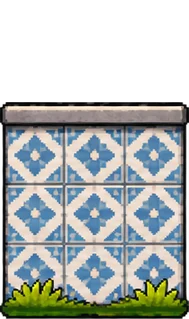
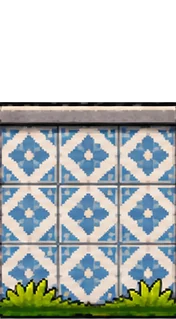
Muro fechado, sem fresta entre peças; prédios saem da camada de casas
As peças do muro geradas por IA tinham de 2 a 21 px de borda
semitransparente (bordas suaves, grama e capitel mais largos que o
corpo), e a camada de trás aparecia entre uma peça e outra.
montar_muro.py agora corta cada peça nova até as colunas em que o corpo
é 100% opaco e preenche os furinhos de dentro com a cor vizinha. As
peças da arte original já emendavam e ficam como estão.

Os 5 prédios saem da camada de casas; ficam as 5 casas novas e a tira
original.

diff --git a/scripts/arte/montar_muro.py b/scripts/arte/montar_muro.py
@@ -108,18 +108,42 @@ def main():
     folga = max(acima for _, acima in conexoes.values())
     altura_canvas = folga + (BASE - PILAR_TOPO)
 
-    def salvar(nome: str, img: Image.Image):
+    topo_pilar = altura_canvas - (BASE - PILAR_TOPO)
+
+    def salvar(nome: str, img: Image.Image, faixa_corpo: tuple[int, int] | None):
         canvas = Image.new("RGBA", (img.width, altura_canvas), (0, 0, 0, 0))
         canvas.alpha_composite(img, (0, altura_canvas - img.height))
+        if faixa_corpo is None:
+            # Peça da arte original: já emendava sem fresta, vai como está.
+            canvas.save(SAIDA / f"{nome}.webp", "WEBP", quality=88, method=6)
+            return
+        # Muro fechado: corta as laterais até a primeira e a última coluna em que o corpo da peça
+        # (sem o capitel e sem a grama) é 100% opaco. A IA desenha bordas suaves e grama mais larga
+        # que o corpo, e essa franja deixava ver a camada de trás entre uma peça e outra.
+        alfa = np.asarray(canvas)[faixa_corpo[0] : faixa_corpo[1], :, 3]
+        cheias = np.where((alfa >= 250).all(axis=0))[0]
+        assert len(cheias), f"{nome}: nenhuma coluna cheia no corpo"
+        canvas = canvas.crop((int(cheias.min()), 0, int(cheias.max()) + 1, altura_canvas))
+        # Furinhos que sobram dentro do corpo (entre pedras, atrás de flores) ficam com a cor do
+        # pixel opaco mais próximo na mesma linha: nada da camada de trás aparece pelo muro.
+        px = np.asarray(canvas).copy()
+        for y in range(faixa_corpo[0], faixa_corpo[1]):
+            linha = px[y]
+            opacos = np.where(linha[:, 3] >= 250)[0]
+            for x in np.where(linha[:, 3] < 250)[0]:
+                vizinho = opacos[np.argmin(np.abs(opacos - x))]
+                linha[x] = linha[vizinho]
+        canvas = Image.fromarray(px)
         canvas.save(SAIDA / f"{nome}.webp", "WEBP", quality=88, method=6)
 
     SAIDA.mkdir(parents=True, exist_ok=True)
     for velho in list(SAIDA.glob("*.webp")) + list(SAIDA.glob("*.json")):
         velho.unlink()
+    # Corpo: abaixo do capitel e acima da grama da base.
     for nome, (img, _) in conexoes.items():
-        salvar(f"conexao-{nome}", img)
+        salvar(f"conexao-{nome}", img, None if nome == "pilar" else (topo_pilar + 30, altura_canvas - 30))
     for nome, (img, _) in paineis.items():
-        salvar(f"painel-{nome}", img)
+        salvar(f"painel-{nome}", img, None if nome in ORIGINAIS else (topo_pilar + PAINEL_TOPO + 8, altura_canvas - 30))
 
     dados = {
         "paineis": sorted(paineis),

diff --git a/scripts/arte/montar_casas.py b/scripts/arte/montar_casas.py
@@ -1,11 +1,11 @@
-"""Recorta as casas e os prédios da folha gerada no ChatGPT para a camada de casas da cidade.
+"""Recorta as casas da folha gerada no ChatGPT para a camada de casas da cidade.
 
 uso: python scripts/arte/montar_casas.py
 
 Entrada:
   PRD/referencias/casas-predios.png   5 casas e 5 prédios pequenos, lado a lado, fundo transparente
 Saídas (em src/features/corrida/imagens/cidade/casas/):
-  casa-<n>.webp e predio-<n>.webp      uma construção por arquivo
+  casa-<n>.webp                        uma casa por arquivo (os prédios da folha não entram)
   trechos.json                         a lista que a camada sorteia (inclui a tira original)
 
 Todas as construções saem no MESMO canvas de altura, com a base no rodapé: a camada desenha cada
@@ -23,6 +23,9 @@ FOLHA = RAIZ / "PRD/referencias/casas-predios.png"
 SAIDA = RAIZ / "src/features/corrida/imagens/cidade/casas"
 
 NOMES = [f"casa-{i}" for i in range(1, 6)] + [f"predio-{i}" for i in range(1, 6)]
+# Os prédios saíram do jogo a pedido do André: ficam na folha (a contagem depende deles para achar
+# os cortes), mas só as casas viram arquivo.
+EXPORTAR = [n for n in NOMES if n.startswith("casa-")]
 # Duas casas da folha encostam uma na outra: corte no vale de pixels entre elas.
 CORTES_EXTRAS = [227, 675]
 FOLGA = 36
@@ -57,6 +60,8 @@ def main():
     for velho in SAIDA.glob("*.webp"):
         velho.unlink()
     for nome, (a, b) in zip(NOMES, pedacos):
+        if nome not in EXPORTAR:
+            continue
         recorte = folha.crop((a, topo, b, base))
         # Só o que é desta construção: o corte extra pode trazer pontas da vizinha. Coluna da borda
         # com quase nada opaco é resto da outra casa.
@@ -69,12 +74,12 @@ def main():
         canvas = Image.new("RGBA", (recorte.width + 2 * FOLGA, altura), (0, 0, 0, 0))
         canvas.alpha_composite(recorte, (FOLGA, 0))
         canvas.save(SAIDA / f"{nome}.webp", "WEBP", quality=88, method=6)
-    trechos = [[nome] for nome in NOMES] + [[ORIGINAL]]
+    trechos = [[nome] for nome in EXPORTAR] + [[ORIGINAL]]
     (SAIDA / "trechos.json").write_text(
         json.dumps({"trechos": trechos}, ensure_ascii=False, indent=1) + "\n", encoding="utf-8"
     )
     total = sum(f.stat().st_size for f in SAIDA.glob("*.webp"))
-    print(f"{len(NOMES)} construções ({total // 1024} KB), altura {altura} px")
+    print(f"{len(EXPORTAR)} casas ({total // 1024} KB), altura {altura} px")
 
 
 if __name__ == "__main__":

diff --git a/PRD/PRD-tela-de-corrida.md b/PRD/PRD-tela-de-corrida.md
@@ -89,14 +89,16 @@ Espaço e Enter também iniciam, continuam e reiniciam.
   (sorteado). Quando o painel muda, entra uma conexão sorteada entre as 11, e o painel seguinte
   nunca é igual ao anterior. Todas as conexões têm a mesma base e o mesmo corpo do pilar original;
   os enfeites (lâmpada, vaso, bola) sobem acima dele.
-- **Casas variadas:** a camada de casas sorteia 5 casas, 5 prédios pequenos
-  (`cidade/casas/`, de `scripts/arte/montar_casas.py` e `PRD/referencias/casas-predios.png`) e a
-  tira original, que tem as árvores. Todas as construções saem na mesma escala, então a porta tem o
-  mesmo tamanho em todas.
+- **Muro fechado:** nenhuma peça deixa ver a camada de trás. O script corta as laterais de cada
+  peça nova até a coluna em que o corpo (sem capitel e sem grama) é 100% opaco, e preenche os
+  furinhos de dentro com a cor vizinha. As peças da arte original já emendavam e vão como estão.
+- **Casas variadas:** a camada de casas sorteia 5 casas novas (`cidade/casas/`, de
+  `scripts/arte/montar_casas.py` e `PRD/referencias/casas-predios.png`) e a tira original, que tem
+  as árvores, na mesma escala. Os 5 prédios da mesma folha saíram do jogo a pedido do André.
 - **Sorteio:** cada camada sorteia a própria sequência pelo índice do grupo, em unidades do
   quadro: o mesmo ponto da pista mostra sempre a mesma coisa.
 - **Tamanho:** muro (com as conexões) e casas 1,5× maiores que na referência de arte, com a base
-  no mesmo lugar. Os prédios mais altos passam do topo da tela.
+  no mesmo lugar.
 - **Calçada:** as juntas das lajes andam com a pista e dão a sensação de velocidade. Vãos
   desenhados como água (rio e lago) ou buraco com cone.
 - **Obstáculos com sprite só na cidade** (`features/corrida/imagens/objetos`, gerados na mesma
